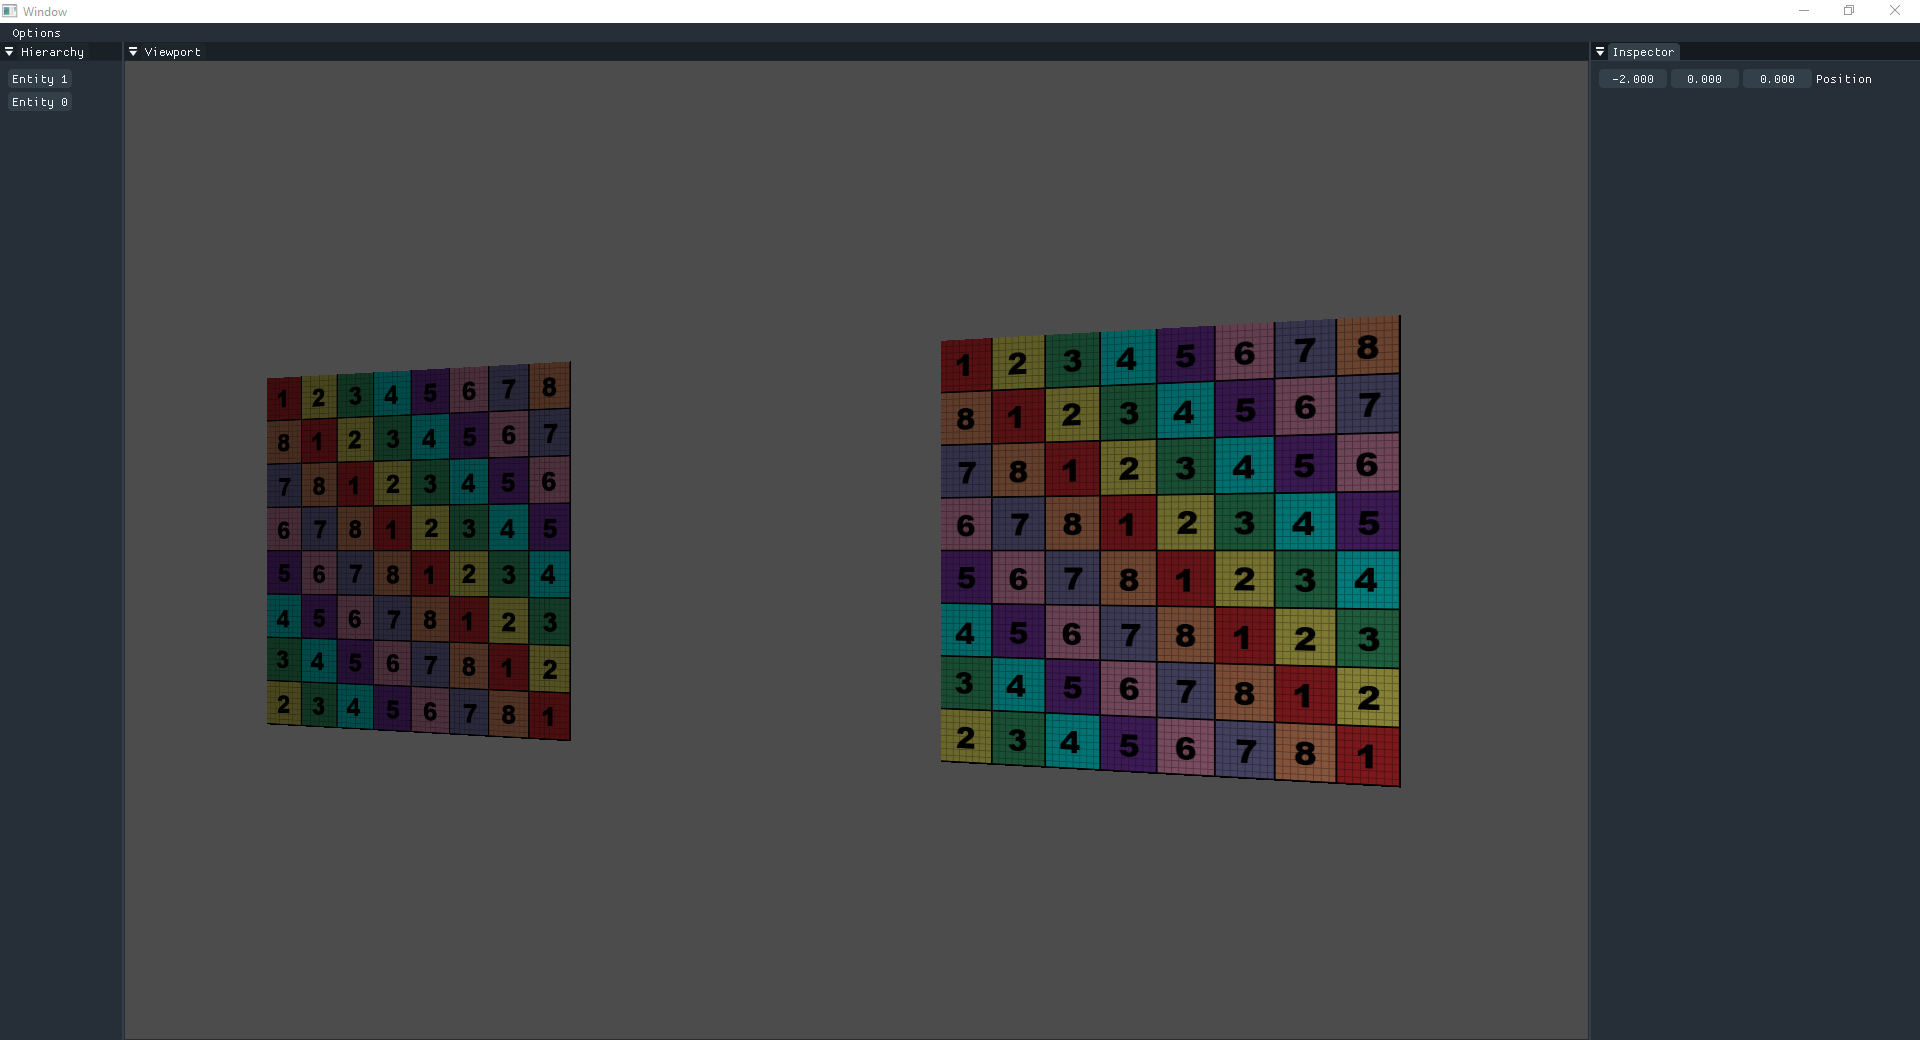
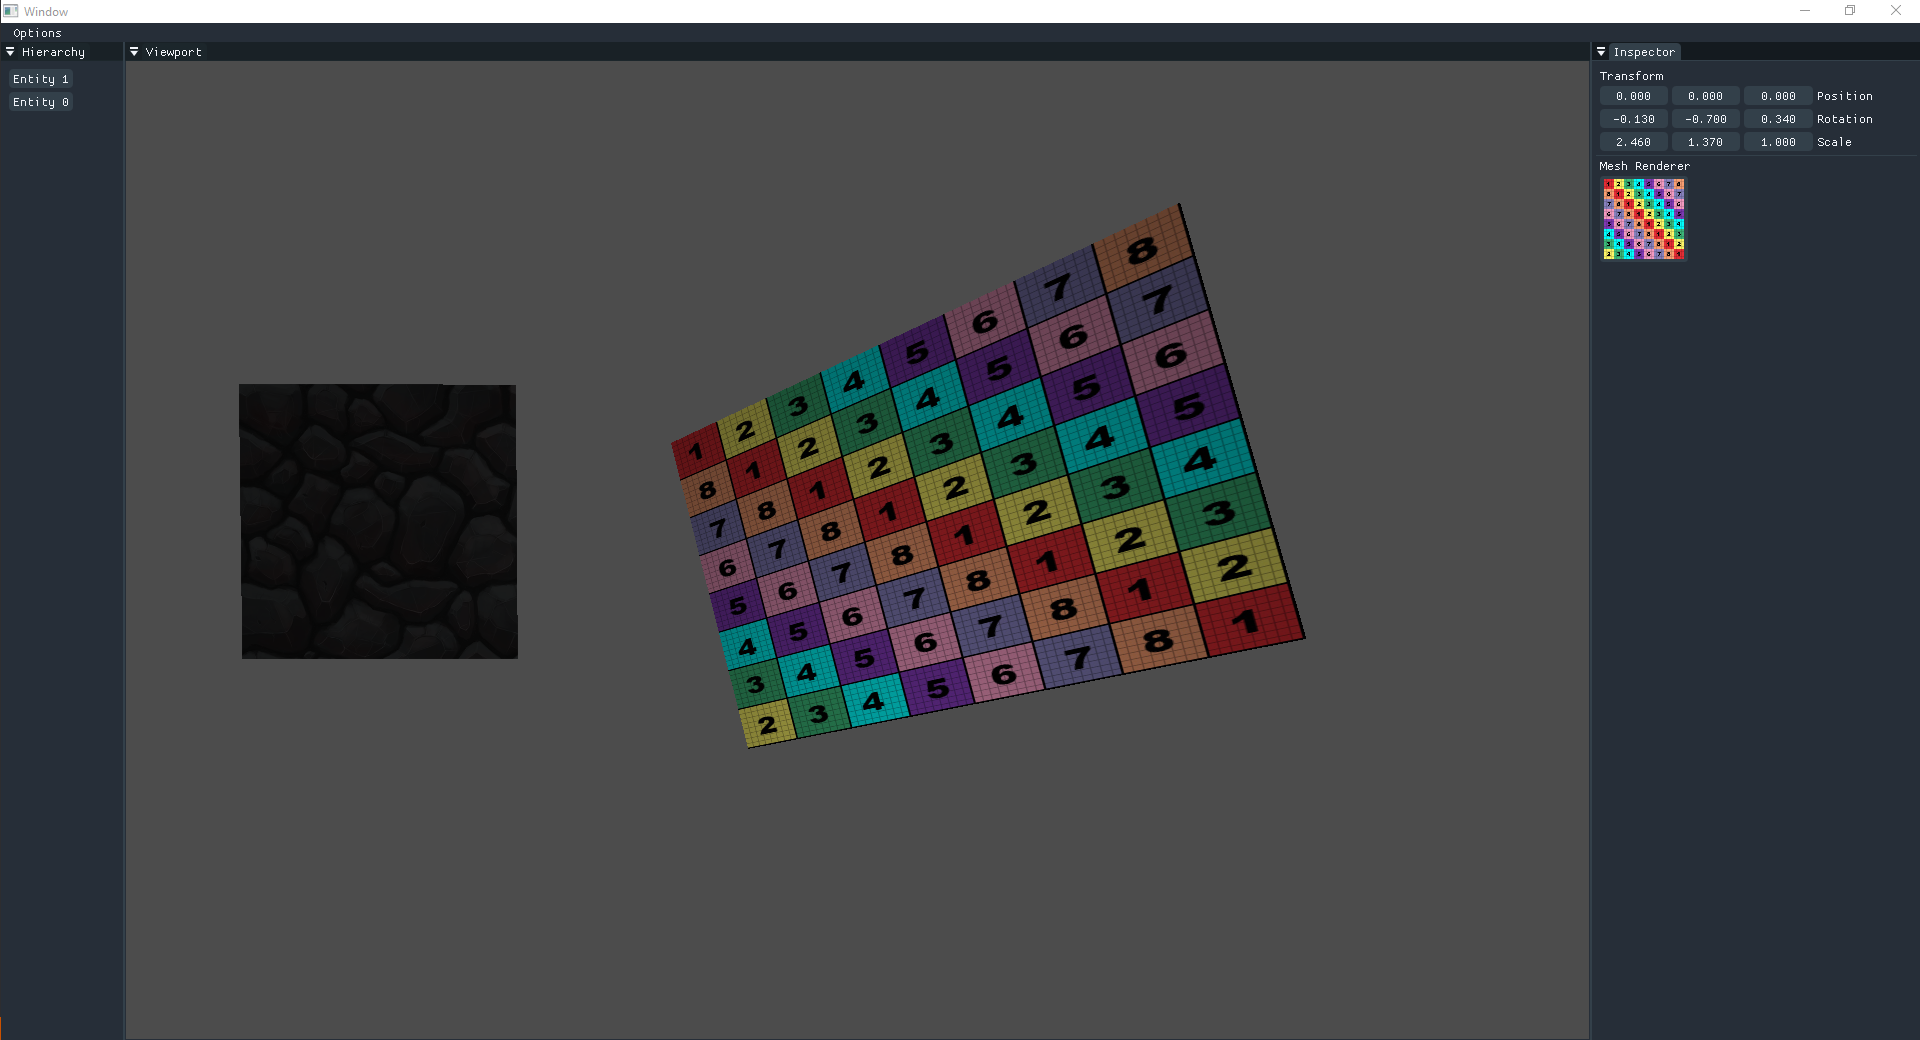
Added nativefiledialog

diff --git a/DuskEditor/src/Panels/InspectorPanel.cpp b/DuskEditor/src/Panels/InspectorPanel.cpp
@@ -1,6 +1,9 @@
 #include "InspectorPanel.h"
 
+#include "DuskEngine.h"
+
 #include "imgui.h"
+#include "nfd.h"
 
 namespace DuskEngine
 {
@@ -14,8 +17,35 @@ namespace DuskEngine
 		if (m_Entity)
 		{
 			auto& transform = m_Entity->GetComponent<Transform>();
+			ImGui::Text("Transform");
 			ImGui::DragFloat3("Position", &transform.Position[0], .01f);
-			
+			ImGui::DragFloat3("Rotation", &transform.Rotation[0], .01f);
+			ImGui::DragFloat3("Scale", &transform.Scale[0], .01f);
+			ImGui::Separator();
+
+			auto& mesh = m_Entity->GetComponent<MeshRenderer>();
+			ImGui::Text("Mesh Renderer");
+			if(ImGui::ImageButton((void*)mesh.TX->GetRendererID(), ImVec2{ 80, 80 }, ImVec2{ 0, 1 }, ImVec2{ 1, 0 }))
+			{
+				APP_LOG("It clicked!")
+				nfdchar_t* outPath = NULL;
+				nfdresult_t result = NFD_OpenDialog("png,jpg;pdf", NULL, &outPath);
+				if (result == NFD_OKAY)
+				{
+					APP_LOG("Success!");
+					APP_LOG(outPath);
+					mesh.TX.reset(Texture::Create(outPath));
+					free(outPath);
+				}
+				else if (result == NFD_CANCEL)
+				{
+					APP_LOG("User pressed cancel.");
+				}
+				else
+				{
+					APP_LOG("Error: %s\n", NFD_GetError());
+				}
+			}
 		}
 		ImGui::End();
 	}

diff --git a/DuskEngine/src/Core/ECS/SceneEntt.cpp b/DuskEngine/src/Core/ECS/SceneEntt.cpp
@@ -43,11 +43,8 @@ namespace DuskEngine
 				front.z = sin(glm::radians(transform.Rotation.y)) * cos(glm::radians(transform.Rotation.y));
 
 				transform.Front = glm::normalize(front);
-
 				transform.Right = glm::normalize(glm::cross(transform.Front, glm::vec3(0.0f, 1.0f, 0.0f)));
-
-				transform.Up = glm::normalize(glm::cross(transform.Right, transform.Front));
-
+				transform.Up = glm::normalize(glm::cross(transform.Right, transform.Front));	
 			}
 		}
 
@@ -66,11 +63,11 @@ namespace DuskEngine
 				mesh.TX->Bind(0);
 				mesh.SH->Bind();
 
-				glm::mat4 model = glm::translate(glm::mat4(1.0f), transform.Position)
+				transform.Model = glm::translate(glm::mat4(1.0f), transform.Position)
 					* glm::toMat4(glm::quat(transform.Rotation))
 					* glm::scale(glm::mat4(1.0f), transform.Scale);
 
-				mesh.SH->SetUniformMat4("u_Model", model);
+				mesh.SH->SetUniformMat4("u_Model", transform.Model);
 				mesh.SH->SetUniformMat4("u_ViewProjection", m_Camera->GetViewProjectionMatrix());
 
 				Renderer::Submit(mesh.VA);

diff --git a/DuskEditor/src/Panels/SceneViewportPanel.cpp b/DuskEditor/src/Panels/SceneViewportPanel.cpp
@@ -23,7 +23,7 @@ namespace DuskEngine
 			m_FB->Resize(m_ViewportSize);
 			m_Camera->SetProjection(glm::perspective(glm::radians(45.0f), viewportSize.x / viewportSize.y, 0.01f, 100.0f));
 		}
-		ImGui::Image((void*)m_FB->GetColorAttachmentID(), ImVec2{ m_ViewportSize.x, m_ViewportSize.y }, ImVec2{ 0,1 }, ImVec2{ 1,0 });
+		ImGui::Image((void*)m_FB->GetColorAttachmentID(), ImVec2{ m_ViewportSize.x, m_ViewportSize.y }, ImVec2{ 0, 1 }, ImVec2{ 1, 0 });
 		ImGui::End();
 		ImGui::PopStyleVar();
 	}

diff --git a/DuskEngine/src/Platform/OpenGL/OpenGLTexture.cpp b/DuskEngine/src/Platform/OpenGL/OpenGLTexture.cpp
@@ -9,15 +9,13 @@
 namespace DuskEngine
 {
     OpenGLTexture::OpenGLTexture(const char* filepath)
-        :m_ID(0)
+        :m_ID(0), m_Width(0), m_Height(0)
     {
         stbi_set_flip_vertically_on_load(true); // move this somewhere else
 
         int width, height, channels;
         unsigned char* data;
         data = stbi_load(filepath, &width, &height, &channels, 0);
-
-        LOG(channels)
 
         if (data)
         {

diff --git a/DuskEditor/src/EditorLayer.cpp b/DuskEditor/src/EditorLayer.cpp
@@ -39,7 +39,7 @@ namespace DuskEngine
 			m_FB.reset(FrameBuffer::Create(fbSpec));
 
 			m_Shader.reset(Shader::Create("res/shaders/simpleTexture.glsl"));
-			m_Texture.reset(Texture::Create("res/textures/uv_mapper.jpg"));
+			m_Texture.reset(Texture::Create("res/textures/rocks.png"));
 			m_VA.reset(VertexArray::Create());
 
 			std::shared_ptr<VertexBuffer> vertexBuffer;

diff --git a/DuskEngine/src/Core/ECS/Components/Transform.h b/DuskEngine/src/Core/ECS/Components/Transform.h
@@ -15,6 +15,8 @@ namespace DuskEngine
 		glm::vec3 Right = { 0.0f, 0.0f, 0.0f };
 		glm::vec3 Up = { 0.0f, 0.0f, 0.0f };
 
+		glm::mat4 Model = glm::mat4(1.0f);
+
 		Transform() = default;
 		Transform(const Transform&) = default;
 		Transform(const glm::vec3& position)
